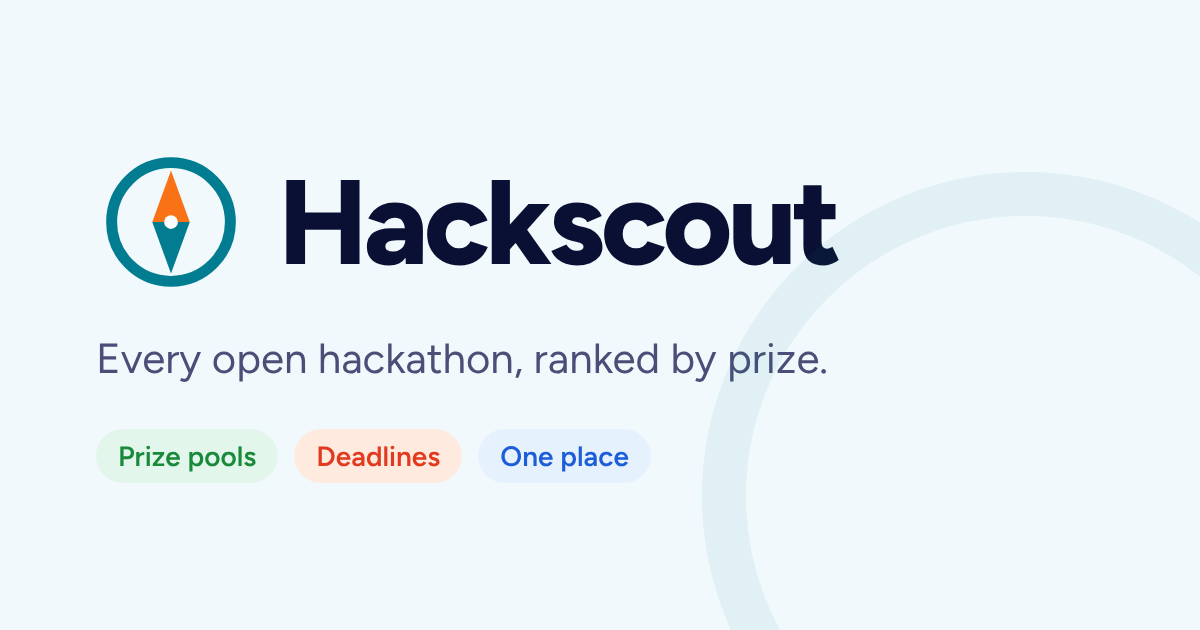
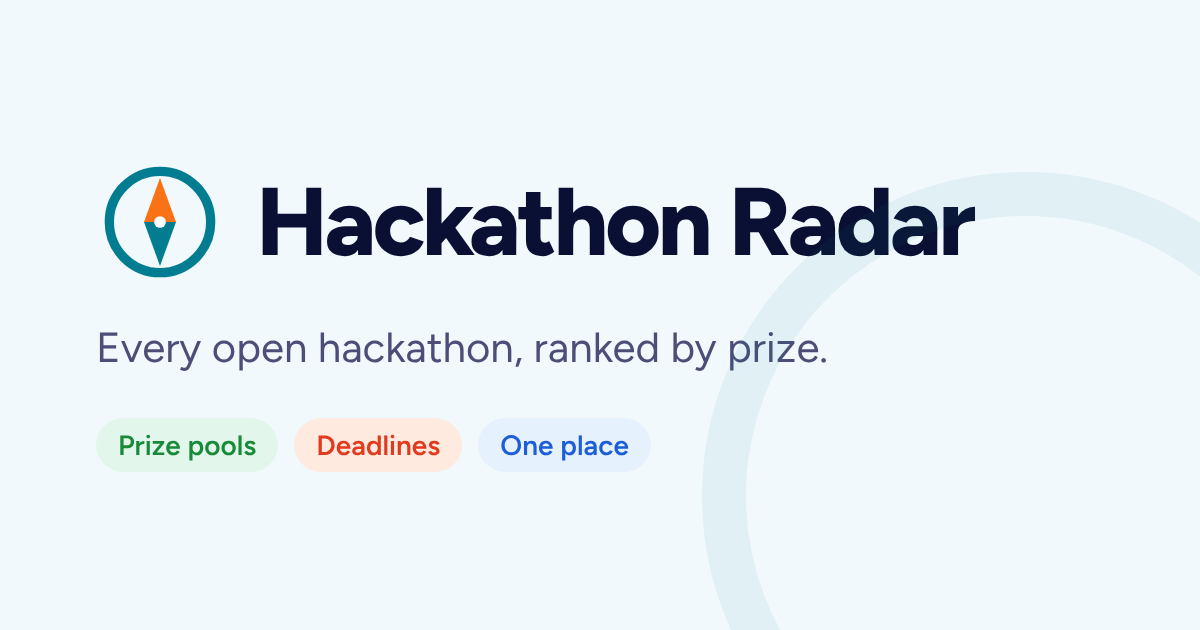
Rename back to Hackathon Radar; share the hackathon's own page
The app is personal now, so the public name doesn't matter: it's
Hackathon Radar again, keeping the compass icon. Share now sends the
hackathon's own page (Devpost, Devfolio, ...) instead of this app's link,
and copies that link on a computer.

Claude-Session: https://claude.ai/code/session_01P3cwfLVn7dPwvdsGw4tY1M

diff --git a/frontend/src/components/Actions.tsx b/frontend/src/components/Actions.tsx
@@ -4,7 +4,7 @@ import { CalendarPlus, Check, Download, Share2 } from "lucide-react";
 import { useEffect, useMemo, useState } from "react";
 
 import type { Hackathon } from "../lib/api";
-import { calendarEvents, downloadIcs, googleCalendarUrl, pageUrl } from "../lib/calendar";
+import { calendarEvents, downloadIcs, googleCalendarUrl } from "../lib/calendar";
 import { deadlineLabel, prizeText } from "../lib/format";
 import { cn } from "../lib/utils";
 import { Button } from "./ui/button";
@@ -76,7 +76,10 @@ export function CalendarButton({ h, className }: { h: Hackathon; className?: str
   );
 }
 
-/** Phones get the system share sheet; elsewhere the link is copied. */
+/**
+ * Shares the hackathon's own page (Devpost, Devfolio, ...), not this app's: the
+ * app is personal. Phones get the system share sheet; elsewhere the link is copied.
+ */
 export function ShareButton({ h, className }: { h: Hackathon; className?: string }) {
   const [copied, setCopied] = useState(false);
 
@@ -87,7 +90,7 @@ export function ShareButton({ h, className }: { h: Hackathon; className?: string
   }, [copied]);
 
   const share = async () => {
-    const url = pageUrl(h);
+    const url = h.source_url;
     const touch = window.matchMedia("(pointer: coarse)").matches;
     if (touch && typeof navigator.share === "function") {
       try {
@@ -128,7 +131,7 @@ export function ShareButton({ h, className }: { h: Hackathon; className?: string
  *   ETHGlobal Mumbai
  *   $157,500 USD prize pool · Closes in 23 days
  *
- *   https://…/h/<id>
+ *   https://ethglobal.com/events/mumbai
  */
 export function shareMessage(h: Hackathon, url: string): string {
   const prize = h.prize_usd ? `${prizeText(h)} prize pool` : prizeText(h);

diff --git a/frontend/index.html b/frontend/index.html
@@ -4,13 +4,13 @@
     <meta charset="UTF-8" />
     <meta name="viewport" content="width=device-width, initial-scale=1.0, viewport-fit=cover" />
     <meta name="theme-color" content="#F1F9FC" />
-    <meta name="description" content="Hackscout: every open hackathon from Devpost, Devfolio, MLH, TAIKAI, ETHGlobal, Unstop and the web, ranked by prize." />
+    <meta name="description" content="Hackathon Radar: every open hackathon from Devpost, Devfolio, MLH, TAIKAI, ETHGlobal, Unstop and the web, ranked by prize." />
     <link rel="icon" href="/favicon.svg" type="image/svg+xml" />
     <link rel="apple-touch-icon" href="/apple-touch-icon.png" />
     <link rel="preconnect" href="https://fonts.googleapis.com" />
     <link rel="preconnect" href="https://fonts.gstatic.com" crossorigin />
     <link rel="stylesheet" href="https://fonts.googleapis.com/css2?family=Figtree:wght@400..800&display=swap" />
-    <title>Hackscout</title>
+    <title>Hackathon Radar</title>
   </head>
   <body>
     <div id="root"></div>

diff --git a/frontend/src/components/Brand.tsx b/frontend/src/components/Brand.tsx
@@ -4,7 +4,7 @@ import type { ReactNode } from "react";
 import { navigate } from "../lib/router";
 import { cn } from "../lib/utils";
 
-/** Hackscout's mark: a compass, its needle's north half in orange. */
+/** The logo: a compass, its needle's north half in orange. */
 export function Logo({ className }: { className?: string }) {
   return (
     <svg viewBox="0 0 48 48" className={cn("h-8 w-8 wide:h-9 wide:w-9", className)} aria-hidden="true">
@@ -25,10 +25,10 @@ export function BrandLink() {
         navigate("/");
       }}
       className="flex items-center gap-3 rounded-lg outline-none focus-visible:ring-2 focus-visible:ring-teal/40"
-      aria-label="Hackscout, all hackathons"
+      aria-label="Hackathon Radar, all hackathons"
     >
       <Logo />
-      <span className="text-[19px] font-semibold wide:text-[21px] tracking-[-0.01em] text-ink">Hackscout</span>
+      <span className="text-[19px] font-semibold wide:text-[21px] tracking-[-0.01em] text-ink">Hackathon Radar</span>
     </a>
   );
 }

diff --git a/frontend/src/lib/calendar.ts b/frontend/src/lib/calendar.ts
@@ -99,11 +99,11 @@ function fold(line: string): string {
 
 export function icsFile(h: Hackathon, events: CalendarEvent[]): string {
   const now = stamp(new Date(), false);
-  const lines = ["BEGIN:VCALENDAR", "VERSION:2.0", "PRODID:-//Hackscout//EN", "CALSCALE:GREGORIAN", "METHOD:PUBLISH"];
+  const lines = ["BEGIN:VCALENDAR", "VERSION:2.0", "PRODID:-//Hackathon Radar//EN", "CALSCALE:GREGORIAN", "METHOD:PUBLISH"];
   for (const ev of events) {
     lines.push(
       "BEGIN:VEVENT",
-      `UID:${h.id}-${ev.kind}@hackscout`,
+      `UID:${h.id}-${ev.kind}@hackathon-radar`,
       `DTSTAMP:${now}`,
       ev.allDay ? `DTSTART;VALUE=DATE:${stamp(ev.start, true)}` : `DTSTART:${stamp(ev.start, false)}`,
       ev.allDay ? `DTEND;VALUE=DATE:${stamp(ev.end, true)}` : `DTEND:${stamp(ev.end, false)}`,

diff --git a/frontend/src/pages/Details.tsx b/frontend/src/pages/Details.tsx
@@ -71,9 +71,9 @@ export function Details({ id, initial, totalCount, lastRefresh, query, onSearch 
   const h: Hackathon | undefined = detail ?? initial;
 
   useEffect(() => {
-    if (h) document.title = `${h.title} · Hackscout`;
+    if (h) document.title = `${h.title} · Hackathon Radar`;
     return () => {
-      document.title = "Hackscout";
+      document.title = "Hackathon Radar";
     };
   }, [h]);
 

diff --git a/frontend/worker/index.ts b/frontend/worker/index.ts
@@ -31,7 +31,7 @@ declare const HTMLRewriter: {
   };
 };
 
-const SITE = "Hackscout";
+const SITE = "Hackathon Radar";
 const SITE_DESCRIPTION = "Every open hackathon from Devpost, Devfolio, MLH, TAIKAI, ETHGlobal, Unstop and the web, ranked by prize.";
 const DETAIL = /^\/h\/([0-9a-f-]{36})\/?$/i;
 

diff --git a/backend/app/snapshot.py b/backend/app/snapshot.py
@@ -58,8 +58,8 @@ def build(out: Path) -> dict:
     # Serve files as-is (no Jekyll processing on GitHub Pages).
     (out / ".nojekyll").write_text("")
     (out / "index.html").write_text(
-        "<!doctype html><meta charset=utf-8><title>Hackscout data</title>"
-        "<p>Data files for <a href='https://hackathon-radar.nkabenyah.workers.dev/'>Hackscout</a>.</p>"
+        "<!doctype html><meta charset=utf-8><title>Hackathon Radar data</title>"
+        "<p>Data files for <a href='https://hackathon-radar.nkabenyah.workers.dev/'>Hackathon Radar</a>.</p>"
     )
     return {"hackathons": len(items)}
 

diff --git a/backend/app/main.py b/backend/app/main.py
@@ -13,7 +13,7 @@ from .categories import CATEGORIES, STATUSES, VETTED_SOURCES
 logging.basicConfig(level=logging.INFO, format="%(asctime)s %(levelname)s %(name)s: %(message)s")
 log = logging.getLogger("api")
 
-app = FastAPI(title="Hackscout API", version="1.0")
+app = FastAPI(title="Hackathon Radar API", version="1.0")
 app.add_middleware(
     CORSMiddleware,
     allow_origins=config.ALLOWED_ORIGINS,

diff --git a/backend/app/config.py b/backend/app/config.py
@@ -25,4 +25,4 @@ ALLOWED_ORIGINS = [
     if o.strip()
 ]
 
-USER_AGENT = "Hackscout/1.0 (personal hackathon aggregator; +https://github.com/nana-kojo801/hackathon-radar)"
+USER_AGENT = "HackathonRadar/1.0 (personal hackathon aggregator; +https://github.com/nana-kojo801/hackathon-radar)"

diff --git a/README.md b/README.md
@@ -1,6 +1,4 @@
-# Hackscout
-
-*Formerly "Hackathon Radar": renamed because another platform already uses that name. Deploy names (the Render service, the `hackathon-radar` Worker and repo) keep the old name, since renaming them would change live URLs.*
+# Hackathon Radar
 
 A personal hackathon finder. It pulls hackathons from Devpost, Devfolio, MLH, TAIKAI, ETHGlobal, Unstop and the open web, runs a cheap AI pass over each one, and shows them in a single list sorted by prize money. Each card links out to the original page so you can register there.
 
@@ -131,7 +129,7 @@ The UI follows the "Atlantic" design: a light theme with two pages.
 How it behaves:
 
 - **Links:** every hackathon has its own link, `/h/<id>`, which you can share. The Cloudflare Worker serves the app for these paths.
-- **Link previews:** when a link is pasted into WhatsApp, Messages, Slack and so on, the card shows the hackathon's name, prize, deadline, location and summary, with the Hackscout image (`public/og-image.png`). A small Worker script (`frontend/worker/index.ts`, configured in `frontend/wrangler.jsonc`) runs only for `/` and `/h/<id>`: it reads the hackathon from the GitHub Pages snapshot and adds the preview tags to the page. Everything else is served straight from the static files. If you rename the Worker in Cloudflare, change `name` in `wrangler.jsonc` to match.
+- **Link previews:** when one of this app's own links is pasted into WhatsApp, Messages, Slack and so on, the card shows the hackathon's name, prize, deadline, location and summary, with the Hackathon Radar image (`public/og-image.png`). A small Worker script (`frontend/worker/index.ts`, configured in `frontend/wrangler.jsonc`) runs only for `/` and `/h/<id>`: it reads the hackathon from the GitHub Pages snapshot and adds the preview tags to the page. Everything else is served straight from the static files. If you rename the Worker in Cloudflare, change `name` in `wrangler.jsonc` to match.
 - **Going back** returns you to the same place in the list, with your filters kept.
 - **Speed:** filtering, sorting and search all happen in the browser, so they respond instantly.
 - **Accessibility:** animations follow the device's "reduce motion" setting.

diff --git a/SPEC.md b/SPEC.md
@@ -1,6 +1,4 @@
-# Hackscout — Spec
-
-*Written as "Hackathon Radar" (the working title). Renamed to Hackscout on 2026-10-11 because another platform already uses that name.*
+# Hackathon Radar — Spec
 
 ## 1. What it is
 A personal discovery tool that finds hackathons from many platforms and the open web, puts them in one list, and sorts by prize money first. It does NOT host hackathons. Every card links out to the original page where you register.
